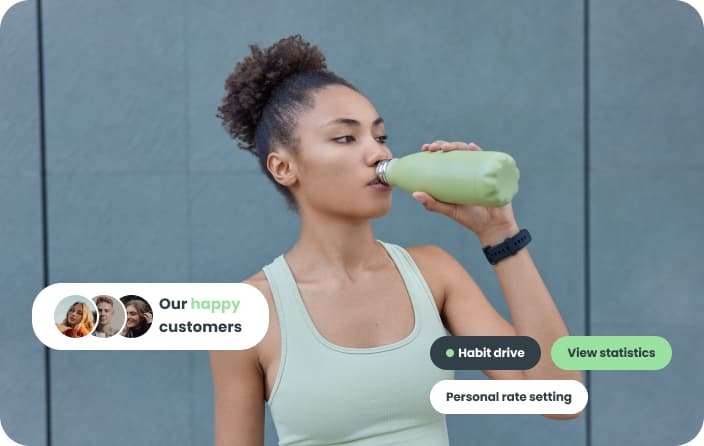
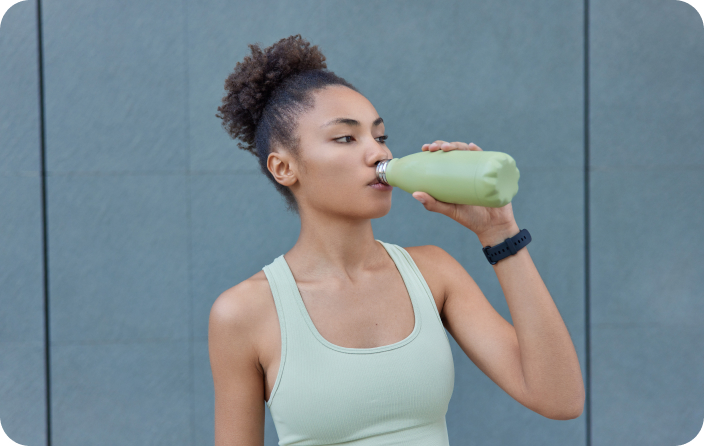
Added Home Page tablet and desktop breakpoints layout

Changed region(s): [[0.5938, 0.7287, 0.9688, 0.9327], [0.0312, 0.6121, 0.4062, 0.787]]

diff --git a/src/components/AdvantagesSection/AdvantagesSection.module.css b/src/components/AdvantagesSection/AdvantagesSection.module.css
@@ -44,7 +44,7 @@
     width: 26.4px;
     height: 28px;
     flex-shrink: 0;
-    border-radius: 50px;
+    border-radius: 50%;
     border: 2px solid #FFF;
     background-color: #d3d3d3;
     background-position: 50%;
@@ -77,23 +77,22 @@
     display: block;
 }
 
-.customers_info {
-    display: flex;
-
-    color: #323F47;
-    flex-wrap: wrap;
+.customers_info,
+.customers_info__span {
     font-size: 12px;
-    font-style: normal;
     font-weight: 700;
     line-height: 1.16;
 }
 
+.customers_info {
+    display: flex;
+    flex-wrap: wrap;
+
+    color: #323F47;
+}
+
 .customers_info__span {
     color: #9BE1A0;
-    font-size: 12px;
-    font-style: normal;
-    font-weight: 700;
-    line-height: 1.16;
 }
 
 .benefits_info__wrap {
@@ -153,13 +152,100 @@
 }
 
 
-  
+/*? ================== Media 768px  ==================== */
+
+
+@media screen and (min-width: 768px) {
+    .advantages_section {
+        max-width: 704px;
+        height: 446px;
+        padding: 32px;
+        background-image: url(../../images/main-page-img/tablet-bg.jpg);
+    }
+
+    .customers_block {
+        padding: 10px 20px;
+        max-width: 240px;
+        margin-bottom: -30px;
+    }
+
+    .customers_icons__item {
+        width: 47px;
+        height: 47px;
+        margin-left: -20px;
+    }
+
+    .customers_icons__item:first-child {
+        background-image: url(../../images/main-page-img/girl-1-tablet.jpg);
+    }
+
+    .customers_icons__item:nth-child(2) {
+        background-image: url(../../images/main-page-img/boy-tablet.jpg);
+    }
+
+    .customers_icons__item:nth-child(3) {
+        background-image: url(../../images/main-page-img/girl-2-tablet.jpg);
+    }
+
+    .customers_info,
+    .customers_info__span {
+        font-size: 15px;
+        line-height: 1.49;
+    }
+
+    .benefits_info__wrap {
+        max-width: 704px;
+    }
+
+    .benefits_info__block {
+        max-width: 245px;
+        gap: 10px;
+    }
+
+    .benefits_btn {
+        padding: 11px 16px;
+        font-size: 12px;
+        line-height: 1;
+        letter-spacing: -0.12px;
+    }
+
+}
+
+/*! ================== Media 1440px  ============================= */
+
+@media screen and (min-width: 1440px) {
+    .advantages_section {
+        max-width: 672px;
+        height: 736px;
+        background-image: url(../../images/main-page-img/desktop-bg.jpg);
+    }
+
+    .customers_block {
+        margin-bottom: -10px;
+    }
+
+    .customers_icons__item:first-child {
+        background-image: url(../../images/main-page-img/girl-1-desktop.jpg);
+    }
+
+    .customers_icons__item:nth-child(2) {
+        background-image: url(../../images/main-page-img/boy-desktop.jpg);
+    }
+
+    .customers_icons__item:nth-child(3) {
+        background-image: url(../../images/main-page-img/girl-2-desktop.jpg);
+    }
+}
+
+
+/* MEDIA FOR Screen resolutions */
+
 
 @media screen and (min-device-pixel-ratio: 2),
 (min-resolution: 2dppx),
 (min-resolution: 192dpi) {
     .advantages_section {
-        background-image: url(../../images//main-page-img//mobile-bg@2.jpg)
+        background-image: url(../../images//main-page-img/mobile-bg@2.jpg)
     }
 
     .customers_icons__item:first-child {
@@ -174,8 +260,41 @@
         background-image: url(../../images/main-page-img/girl-2-mobile@2.jpg);
     }
 
+
+    @media screen and (min-width: 768px) {
+        .advantages_section {
+            background-image: url(../../images//main-page-img/tablet-bg@2.jpg)
+        }
+
+        .customers_icons__item:first-child {
+            background-image: url(../../images/main-page-img/girl-1-tablet@2.jpg);
+        }
+
+        .customers_icons__item:nth-child(2) {
+            background-image: url(../../images/main-page-img/boy-tablet@2.jpg);
+        }
+
+        .customers_icons__item:nth-child(3) {
+            background-image: url(../../images/main-page-img/girl-2-tablet@2.jpg);
+        }
+    }
+
+
+    @media screen and (min-width: 1440px) {
+        .advantages_section {
+            background-image: url(../../images//main-page-img/desktop-bg@2.jpg)
+        }
+
+        .customers_icons__item:first-child {
+            background-image: url(../../images/main-page-img/girl-1-desktop@2.jpg);
+        }
+
+        .customers_icons__item:nth-child(2) {
+            background-image: url(../../images/main-page-img/boy-desktop@2.jpg);
+        }
+
+        .customers_icons__item:nth-child(3) {
+            background-image: url(../../images/main-page-img/girl-2-desktop@2.jpg);
+        }
+    }
 }
-
-@media screen and (min-width: 768px) {}
-
-@media screen and (min-width: 1440px) {}

diff --git a/src/components/WelcomeSection/WelcomeSection.module.css b/src/components/WelcomeSection/WelcomeSection.module.css
@@ -29,7 +29,6 @@
 .sub_head {
     color: #2F2F2F;
     font-size: 14px;
-    font-style: normal;
     font-weight: 400;
     line-height: 1.28;
     letter-spacing: 0.84px;
@@ -41,7 +40,6 @@
     color: #323F47;
 
     font-size: 38px;
-    font-style: normal;
     font-weight: 700;
     line-height: 1;
     letter-spacing: -0.38px;
@@ -62,9 +60,7 @@
     border-radius: 30px;
 
     color: #323F47;
-    text-align: center;
     font-size: 14px;
-    font-style: normal;
     font-weight: 700;
     line-height: 1.28;
     letter-spacing: -0.14px;
@@ -81,7 +77,61 @@
 }
 
 
+@media screen and (min-width: 768px) {
+    .welcome_section__wrap {
+        max-width: 704px;
+        height: auto;
+        padding: 32px;
+    }
 
-@media screen and (min-width: 768px) {}
+    .welcome_section {
+        padding-left: 32px;
+        padding-right: 60px;
+    }
 
-@media screen and (min-width: 1440px) {}
+    .hero_section {
+        padding-top: 50px;
+    }
+
+    .sub_head {
+        font-size: 16px;
+        line-height: 1.5;
+        letter-spacing: 0.96px;
+    }
+
+    .main_head {
+        font-size: 64px;
+        line-height: 1.09;
+        letter-spacing: -0.64px;
+    }
+
+    .buttons_block {
+        padding-bottom: 18px;
+    }
+}
+
+@media screen and (min-width: 1440px) {
+    .welcome_section__wrap {
+        max-width: 672px;
+        height: 736px;
+    }
+
+    .hero_section {
+        padding-top: 132px;
+    }
+
+    .main_head {
+        font-size: 80px;
+        line-height: 0.95;
+        letter-spacing: -0.8px;
+    }
+
+
+    .button {
+        padding: 18px 40px;
+        gap: 10px;
+        font-size: 16px;
+        line-height: 1.5;
+        letter-spacing: -0.16px;
+    }
+}

diff --git a/src/pages/HomePage/HomePage.module.css b/src/pages/HomePage/HomePage.module.css
@@ -1,36 +1,29 @@
-img {
-    display: block;
-    max-width: 100%;
-}
-
-.container {
-    display: flex;
-    flex-direction: column;
-    margin: 0 auto;
-    padding: 16px;
-    max-width: 375px;
-    width: 100%;
-    gap: 16px;
-}
-
 .main_page {
     display: flex;
+    flex-direction: column;
+    
     width: 100%;
     max-width: 375px;
+    padding-top: 16px;
     background-color: #ffffff;
     box-sizing: border-box;
+    gap: 16px;
 }
 
 
 
 @media screen and (min-width: 768px) {
-    .container {
+    .main_page {
+        width: 768px;
         max-width: 768px;
     }
 }
 
 @media screen and (min-width: 1440px) {
-    .container {
+    .main_page {
+        width: 1440px;
         max-width: 1440px;
+        flex-direction: row;
+        gap: 32px;
     }
 }

diff --git a/src/components/AdvantagesSection/AdvantagesSection.jsx b/src/components/AdvantagesSection/AdvantagesSection.jsx
@@ -4,6 +4,7 @@ const AdvantagesSection = () => {
   return (
     <div className={css.advantages_section}>
       <div className={css.advantages_info__block}>
+        
         <div className={css.customers_block}>
           <ul className={css.customers_icons__list}>
             <li className={css.customers_icons__item} />

diff --git a/src/pages/HomePage/HomePage.jsx b/src/pages/HomePage/HomePage.jsx
@@ -5,10 +5,8 @@ import css from './HomePage.module.css';
 const HomePage = () => {
   return (
     <section className={css.main_page}>
-      <div className={css.container}>
         <WelcomeSection />
         <AdvantagesSection />
-      </div>
     </section>
   );
 };

diff --git a/src/components/Logo/Logo.module.css b/src/components/Logo/Logo.module.css
@@ -16,6 +16,10 @@
 }
 
 
-@media screen and (min-width: 768px) {}
-
-@media screen and (min-width: 1440px) {}
+@media screen and (min-width: 768px) {
+    .logo {
+        font-size: 24px;
+        line-height: 1;
+        letter-spacing: -0.24px;
+    }
+}
